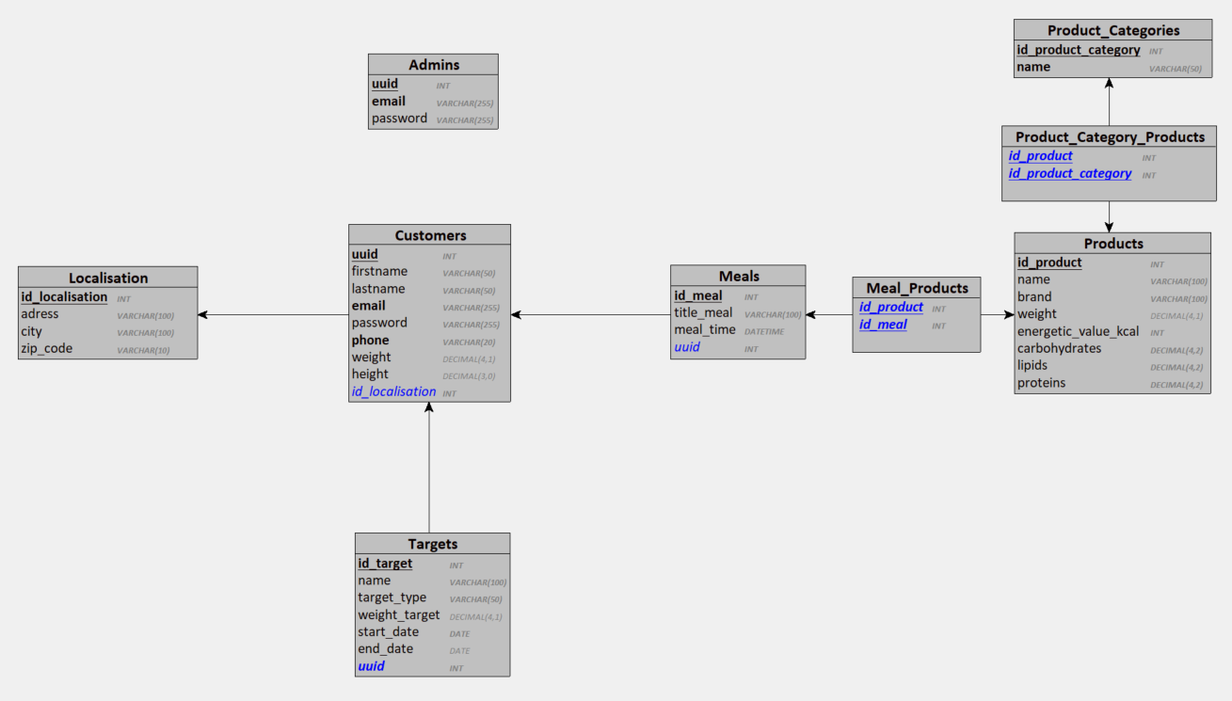
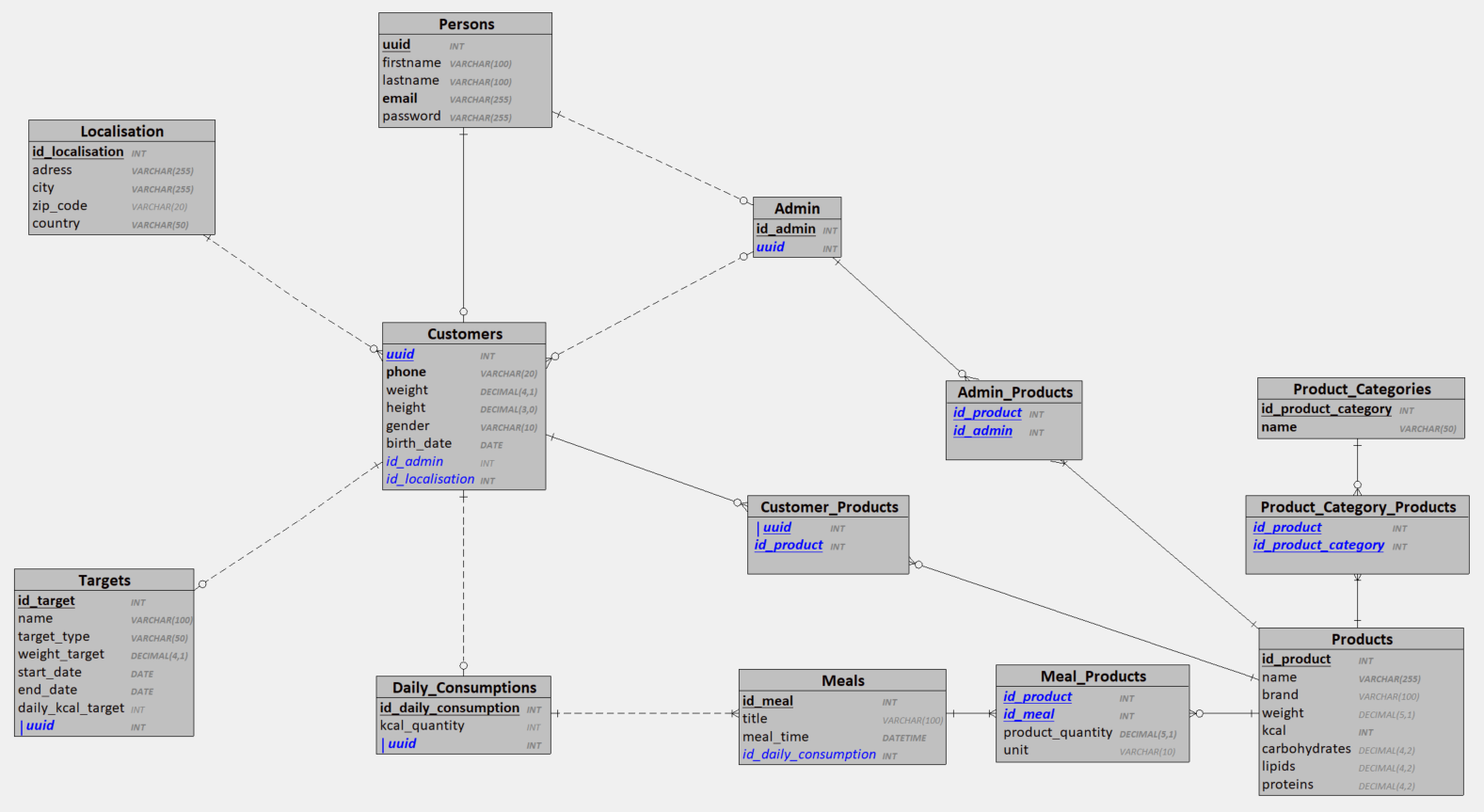
docs: update merise

diff --git a/doc/specifications-techniques/conception-bdd.md b/doc/specifications-techniques/conception-bdd.md
@@ -13,13 +13,13 @@
 ```sql
 CREATE TABLE Products(
    id_product INT,
-   name VARCHAR(100) NOT NULL,
-   brand VARCHAR(100) NOT NULL,
-   weight DECIMAL(4,1),
-   energetic_value_kcal INT NOT NULL,
-   carbohydrates DECIMAL(4,2) NOT NULL,
-   lipids DECIMAL(4,2) NOT NULL,
-   proteins DECIMAL(4,2) NOT NULL,
+   name VARCHAR(255) NOT NULL,
+   brand VARCHAR(100),
+   weight DECIMAL(5,1),
+   kcal INT NOT NULL,
+   carbohydrates DECIMAL(4,2),
+   lipids DECIMAL(4,2),
+   proteins DECIMAL(4,2),
    PRIMARY KEY(id_product)
 );
 
@@ -32,61 +32,84 @@ CREATE TABLE Product_Categories(
 
 CREATE TABLE Localisation(
    id_localisation INT,
-   adress VARCHAR(100) NOT NULL,
-   city VARCHAR(100) NOT NULL,
-   zip_code VARCHAR(10) NOT NULL,
+   adress VARCHAR(255) NOT NULL,
+   city VARCHAR(255) NOT NULL,
+   zip_code VARCHAR(20),
+   country VARCHAR(50) NOT NULL,
    PRIMARY KEY(id_localisation)
 );
 
-CREATE TABLE Admins(
+CREATE TABLE Persons(
    uuid INT,
+   firstname VARCHAR(100) NOT NULL,
+   lastname VARCHAR(100) NOT NULL,
    email VARCHAR(255) NOT NULL,
    password VARCHAR(255) NOT NULL,
    PRIMARY KEY(uuid),
    UNIQUE(email)
 );
 
-CREATE TABLE Customers(
-   uuid INT,
-   firstname VARCHAR(50) NOT NULL,
-   lastname VARCHAR(50) NOT NULL,
-   email VARCHAR(255) NOT NULL,
-   password VARCHAR(255) NOT NULL,
-   phone VARCHAR(20),
-   weight DECIMAL(4,1),
-   height DECIMAL(3,0),
-   id_localisation INT NOT NULL,
-   PRIMARY KEY(uuid),
-   UNIQUE(email),
-   UNIQUE(phone),
-   FOREIGN KEY(id_localisation) REFERENCES Localisation(id_localisation)
+CREATE TABLE Admin(
+   id_admin INT,
+   uuid INT NOT NULL,
+   PRIMARY KEY(id_admin),
+   UNIQUE(uuid),
+   FOREIGN KEY(uuid) REFERENCES Persons(uuid)
 );
 
-CREATE TABLE Meals(
-   id_meal INT,
-   title_meal VARCHAR(100) NOT NULL,
-   meal_time DATETIME NOT NULL,
-   uuid INT NOT NULL,
-   PRIMARY KEY(id_meal),
-   FOREIGN KEY(uuid) REFERENCES Customers(uuid)
+CREATE TABLE Customers(
+   uuid INT,
+   phone VARCHAR(20),
+   weight DECIMAL(4,1) NOT NULL,
+   height DECIMAL(3,0) NOT NULL,
+   gender VARCHAR(10) NOT NULL,
+   birth_date DATE NOT NULL,
+   id_admin INT,
+   id_localisation INT NOT NULL,
+   PRIMARY KEY(uuid),
+   UNIQUE(phone),
+   FOREIGN KEY(uuid) REFERENCES Persons(uuid),
+   FOREIGN KEY(id_admin) REFERENCES Admin(id_admin),
+   FOREIGN KEY(id_localisation) REFERENCES Localisation(id_localisation)
 );
 
 CREATE TABLE Targets(
    id_target INT,
    name VARCHAR(100) NOT NULL,
    target_type VARCHAR(50) NOT NULL,
-   weight_target DECIMAL(4,1),
+   weight_target DECIMAL(4,1) NOT NULL,
    start_date DATE NOT NULL,
-   end_date DATE,
+   end_date DATE NOT NULL,
+   daily_kcal_target INT,
    uuid INT NOT NULL,
    PRIMARY KEY(id_target),
    UNIQUE(uuid),
    FOREIGN KEY(uuid) REFERENCES Customers(uuid)
 );
 
+CREATE TABLE Daily_Consumptions(
+   id_daily_consumption INT,
+   kcal_quantity INT,
+   uuid INT NOT NULL,
+   PRIMARY KEY(id_daily_consumption),
+   UNIQUE(uuid),
+   FOREIGN KEY(uuid) REFERENCES Customers(uuid)
+);
+
+CREATE TABLE Meals(
+   id_meal INT,
+   title VARCHAR(100),
+   meal_time DATETIME NOT NULL,
+   id_daily_consumption INT NOT NULL,
+   PRIMARY KEY(id_meal),
+   FOREIGN KEY(id_daily_consumption) REFERENCES Daily_Consumptions(id_daily_consumption)
+);
+
 CREATE TABLE Meal_Products(
    id_product INT,
    id_meal INT,
+   product_quantity DECIMAL(5,1) NOT NULL,
+   unit VARCHAR(10),
    PRIMARY KEY(id_product, id_meal),
    FOREIGN KEY(id_product) REFERENCES Products(id_product),
    FOREIGN KEY(id_meal) REFERENCES Meals(id_meal)
@@ -99,50 +122,80 @@ CREATE TABLE Product_Category_Products(
    FOREIGN KEY(id_product) REFERENCES Products(id_product),
    FOREIGN KEY(id_product_category) REFERENCES Product_Categories(id_product_category)
 );
+
+CREATE TABLE Admin_Products(
+   id_product INT,
+   id_admin INT,
+   PRIMARY KEY(id_product, id_admin),
+   FOREIGN KEY(id_product) REFERENCES Products(id_product),
+   FOREIGN KEY(id_admin) REFERENCES Admin(id_admin)
+);
+
+CREATE TABLE Customer_Products(
+   uuid INT,
+   id_product INT,
+   PRIMARY KEY(uuid, id_product),
+   FOREIGN KEY(uuid) REFERENCES Customers(uuid),
+   FOREIGN KEY(id_product) REFERENCES Products(id_product)
+);
 ```
 
 ## Dictionnaire de données
 
-| Entité                        | Attribut             | Type de Données | Longueur | Contraintes                                                                                                                       | Description                                    | Exemple             |
-| ----------------------------- | -------------------- | --------------- | -------- | --------------------------------------------------------------------------------------------------------------------------------- | ---------------------------------------------- | ------------------- |
-| **Products**                  | id_product           | INT             | -        | PRIMARY KEY                                                                                                                       | Identifiant unique du produit.                 | 1                   |
-|                               | name                 | VARCHAR         | 100      | NOT NULL                                                                                                                          | Nom du produit.                                | Apple               |
-|                               | brand                | VARCHAR         | 100      | NOT NULL                                                                                                                          | Marque du produit.                             | Fresh Farm          |
-|                               | weight               | DECIMAL         | 4,1      | -                                                                                                                                 | Poids du produit en grammes.                   | 200.0               |
-|                               | energetic_value_kcal | INT             | -        | NOT NULL                                                                                                                          | Valeur énergétique du produit en kcal.         | 52                  |
-|                               | carbohydrates        | DECIMAL         | 4,2      | NOT NULL                                                                                                                          | Quantité de glucides en grammes.               | 14.0                |
-|                               | lipids               | DECIMAL         | 4,2      | NOT NULL                                                                                                                          | Quantité de lipides en grammes.                | 0.2                 |
-|                               | proteins             | DECIMAL         | 4,2      | NOT NULL                                                                                                                          | Quantité de protéines en grammes.              | 0.3                 |
-| **Product_Categories**        | id_product_category  | INT             | -        | PRIMARY KEY                                                                                                                       | Identifiant unique de la catégorie de produit. | 1                   |
-|                               | name                 | VARCHAR         | 50       | NOT NULL, UNIQUE                                                                                                                  | Nom de la catégorie de produit.                | Fruits              |
-| **Localisation**              | id_localisation      | INT             | -        | PRIMARY KEY                                                                                                                       | Identifiant unique de la localisation.         | 1                   |
-|                               | adress               | VARCHAR         | 100      | NOT NULL                                                                                                                          | Adresse de la localisation.                    | 123 Main St         |
-|                               | city                 | VARCHAR         | 100      | NOT NULL                                                                                                                          | Ville de la localisation.                      | Paris               |
-|                               | zip_code             | VARCHAR         | 10       | NOT NULL                                                                                                                          | Code postal de la localisation.                | 75001               |
-| **Customers**                 | uuid                 | INT             | -        | PRIMARY KEY                                                                                                                       | Identifiant unique du client.                  | 1                   |
-|                               | firstname            | VARCHAR         | 50       | NOT NULL                                                                                                                          | Prénom du client.                              | John                |
-|                               | lastname             | VARCHAR         | 50       | NOT NULL                                                                                                                          | Nom de famille du client.                      | Doe                 |
-|                               | email                | VARCHAR         | 255      | NOT NULL, UNIQUE                                                                                                                  | Adresse email du client.                       | john.doe@mail.com   |
-|                               | password             | VARCHAR         | 255      | NOT NULL                                                                                                                          | Mot de passe du client.                        | securepass          |
-|                               | phone                | VARCHAR         | 20       | UNIQUE                                                                                                                            | Numéro de téléphone du client.                 | 1234567890          |
-|                               | weight               | DECIMAL         | 4,1      | -                                                                                                                                 | Poids du client en kg.                         | 70.0                |
-|                               | height               | DECIMAL         | 3,0      | -                                                                                                                                 | Taille du client en cm.                        | 175                 |
-|                               | id_localisation      | INT             | -        | NOT NULL, FOREIGN KEY(id_localisation) REFERENCES Localisation(id_localisation)                                                   | Référence à la localisation du client.         | 1                   |
-| **Meals**                     | id_meal              | INT             | -        | PRIMARY KEY                                                                                                                       | Identifiant unique du repas.                   | 1                   |
-|                               | title_meal           | VARCHAR         | 100      | NOT NULL                                                                                                                          | Titre du repas.                                | Breakfast           |
-|                               | meal_time            | DATETIME        | -        | NOT NULL                                                                                                                          | Heure du repas.                                | 2023-01-01 08:00:00 |
-|                               | uuid                 | INT             | -        | NOT NULL, FOREIGN KEY(uuid) REFERENCES Customers(uuid)                                                                            | Référence au client ayant consommé le repas.   | 1                   |
-| **Targets**                   | id_target            | INT             | -        | PRIMARY KEY                                                                                                                       | Identifiant unique de l'objectif.              | 1                   |
-|                               | name                 | VARCHAR         | 100      | NOT NULL                                                                                                                          | Nom de l'objectif.                             | Weight Loss         |
-|                               | target_type          | VARCHAR         | 50       | NOT NULL                                                                                                                          | Type de l'objectif.                            | Weight              |
-|                               | weight_target        | DECIMAL         | 4,1      | -                                                                                                                                 | Poids cible.                                   | 65.0                |
-|                               | start_date           | DATE            | -        | NOT NULL                                                                                                                          | Date de début de l'objectif.                   | 2023-01-01          |
-|                               | end_date             | DATE            | -        | -                                                                                                                                 | Date de fin de l'objectif.                     | 2023-12-31          |
-|                               | uuid                 | INT             | -        | NOT NULL, UNIQUE, FOREIGN KEY(uuid) REFERENCES Customers(uuid)                                                                    | Référence au client ayant cet objectif.        | 1                   |
-| **Meal_Products**             | id_product           | INT             | -        | PRIMARY KEY(id_product, id_meal), FOREIGN KEY(id_product) REFERENCES Products(id_product)                                         | Référence au produit dans le repas.            | 1                   |
-|                               | id_meal              | INT             | -        | PRIMARY KEY(id_product, id_meal), FOREIGN KEY(id_meal) REFERENCES Meals(id_meal)                                                  | Référence au repas contenant le produit.       | 1                   |
-| **Product_Category_Products** | id_product           | INT             | -        | PRIMARY KEY(id_product, id_product_category), FOREIGN KEY(id_product) REFERENCES Products(id_product)                             | Référence au produit dans la catégorie.        | 1                   |
-|                               | id_product_category  | INT             | -        | PRIMARY KEY(id_product, id_product_category), FOREIGN KEY(id_product_category) REFERENCES Product_Categories(id_product_category) | Référence à la catégorie contenant le produit. | 1                   |
-| **Admins**                    | uuid                 | INT             | -        | PRIMARY KEY                                                                                                                       | Identifiant unique de l'administrateur.        | 1                   |
-|                               | email                | VARCHAR         | 255      | NOT NULL, UNIQUE                                                                                                                  | Adresse email de l'administrateur.             | admin@mail.com      |
-|                               | password             | VARCHAR         | 255      | NOT NULL                                                                                                                          | Mot de passe de l'administrateur.              | adminpass           |
+| Entité                   | Attribut             | Type de Données | Longueur | Contraintes                                  | Description                                                    | Exemple       |
+|--------------------------|----------------------|-----------------|----------|----------------------------------------------|----------------------------------------------------------------|---------------|
+| **Products**             | id_product           | INT             | -        | PRIMARY KEY                                  | Identifiant unique du produit.                                 | 1             |
+|                          | name                 | VARCHAR         | 255      | NOT NULL                                     | Nom du produit.                                                | Apple         |
+|                          | brand                | VARCHAR         | 100      | -                                            | Marque du produit.                                             | Fresh Farm    |
+|                          | weight               | DECIMAL         | 5,1      | -                                            | Poids du produit en grammes.                                   | 200.0         |
+|                          | kcal                 | INT             | -        | NOT NULL                                     | Valeur énergétique du produit en kcal.                         | 52            |
+|                          | carbohydrates        | DECIMAL         | 4,2      | -                                            | Quantité de glucides en grammes.                               | 14.0          |
+|                          | lipids               | DECIMAL         | 4,2      | -                                            | Quantité de lipides en grammes.                                | 0.2           |
+|                          | proteins             | DECIMAL         | 4,2      | -                                            | Quantité de protéines en grammes.                              | 0.3           |
+| **Product_Categories**   | id_product_category  | INT             | -        | PRIMARY KEY                                  | Identifiant unique de la catégorie de produit.                 | 1             |
+|                          | name                 | VARCHAR         | 50       | NOT NULL, UNIQUE                             | Nom de la catégorie de produit.                                | Fruits        |
+| **Localisation**         | id_localisation      | INT             | -        | PRIMARY KEY                                  | Identifiant unique de la localisation.                         | 1             |
+|                          | adress               | VARCHAR         | 255      | NOT NULL                                     | Adresse de la localisation.                                    | 123 Main St   |
+|                          | city                 | VARCHAR         | 255      | NOT NULL                                     | Ville de la localisation.                                      | Paris         |
+|                          | zip_code             | VARCHAR         | 20       | -                                            | Code postal de la localisation.                                | 75001         |
+|                          | country              | VARCHAR         | 50       | NOT NULL                                     | Pays de la localisation.                                       | France        |
+| **Persons**              | uuid                 | INT             | -        | PRIMARY KEY                                  | Identifiant unique de la personne.                             | 123e4567-e89b-12d3-a456-426614174000             |
+|                          | firstname            | VARCHAR         | 100      | NOT NULL                                     | Prénom de la personne.                                         | John          |
+|                          | lastname             | VARCHAR         | 100      | NOT NULL                                     | Nom de famille de la personne.                                 | Doe           |
+|                          | email                | VARCHAR         | 255      | NOT NULL, UNIQUE                             | Adresse email de la personne.                                  | john.doe@mail.com |
+|                          | password             | VARCHAR         | 255      | NOT NULL                                     | Mot de passe de la personne.                                   | securepass    |
+| **Admin**                | id_admin             | INT             | -        | PRIMARY KEY                                  | Identifiant unique de l'administrateur.                        | 1             |
+|                          | uuid                 | INT             | -        | NOT NULL, UNIQUE, FOREIGN KEY(uuid) REFERENCES Persons(uuid) | Référence à la personne administrateur.                        | 123e4567-e89b-12d3-a456-426614174000             |
+| **Customers**            | uuid                 | INT             | -        | PRIMARY KEY                                  | Identifiant unique du client.                                  | 123e4567-e89b-12d3-a456-426614174000             |
+|                          | phone                | VARCHAR         | 20       | UNIQUE                                       | Numéro de téléphone du client.                                 | 1234567890    |
+|                          | weight               | DECIMAL         | 4,1      | NOT NULL                                     | Poids du client en kg.                                         | 70.0          |
+|                          | height               | DECIMAL         | 3,0      | NOT NULL                                     | Taille du client en cm.                                        | 175           |
+|                          | gender               | VARCHAR         | 10       | NOT NULL                                     | Genre du client.                                               | Male          |
+|                          | birth_date           | DATE            | -        | NOT NULL                                     | Date de naissance du client.                                   | 1990-01-01    |
+|                          | id_admin             | INT             | -        | FOREIGN KEY(id_admin) REFERENCES Admin(id_admin) | Référence à l'administrateur responsable du client.            | 123e4567-e89b-12d3-a456-426614174000             |
+|                          | id_localisation      | INT             | -        | NOT NULL, FOREIGN KEY(id_localisation) REFERENCES Localisation(id_localisation) | Référence à la localisation du client.            | 1             |
+| **Targets**              | id_target            | INT             | -        | PRIMARY KEY                                  | Identifiant unique de l'objectif.                              | 1             |
+|                          | name                 | VARCHAR         | 100      | NOT NULL                                     | Nom de l'objectif.                                             | Weight Loss   |
+|                          | target_type          | VARCHAR         | 50       | NOT NULL                                     | Type de l'objectif.                                            | Weight        |
+|                          | weight_target        | DECIMAL         | 4,1      | NOT NULL                                     | Poids cible.                                                   | 65.0          |
+|                          | start_date           | DATE            | -        | NOT NULL                                     | Date de début de l'objectif.                                   | 2023-01-01    |
+|                          | end_date             | DATE            | -        | NOT NULL                                     | Date de fin de l'objectif.                                     | 2023-12-31    |
+|                          | daily_kcal_target    | INT             | -        | -                                            | Objectif quotidien en kcal.                                    | 2000          |
+|                          | uuid                 | INT             | -        | NOT NULL, UNIQUE, FOREIGN KEY(uuid) REFERENCES Customers(uuid) | Référence au client ayant cet objectif.                    | 123e4567-e89b-12d3-a456-426614174000             |
+| **Daily_Consumptions**   | id_daily_consumption | INT             | -        | PRIMARY KEY                                  | Identifiant unique de la consommation quotidienne.             | 1             |
+|                          | kcal_quantity        | INT             | -        | -                                            | Quantité de kcal consommées dans la journée.                   | 1800          |
+|                          | uuid                 | INT             | -        | NOT NULL, UNIQUE, FOREIGN KEY(uuid) REFERENCES Customers(uuid) | Référence au client ayant cette consommation.                  | 123e4567-e89b-12d3-a456-426614174000             |
+| **Meals**                | id_meal              | INT             | -        | PRIMARY KEY                                  | Identifiant unique du repas.                                   | 1             |
+|                          | title                | VARCHAR         | 100      | -                                            | Titre du repas.                                                | Breakfast     |
+|                          | meal_time            | DATETIME        | -        | NOT NULL                                     | Heure du repas.                                                | 2023-01-01 08:00:00 |
+|                          | id_daily_consumption | INT             | -        | NOT NULL, FOREIGN KEY(id_daily_consumption) REFERENCES Daily_Consumptions(id_daily_consumption) | Référence à la consommation quotidienne liée au repas.         | 1             |
+| **Meal_Products**        | id_product           | INT             | -        | PRIMARY KEY(id_product, id_meal), FOREIGN KEY(id_product) REFERENCES Products(id_product) | Référence au produit dans le repas.                | 1             |
+|                          | id_meal              | INT             | -        | PRIMARY KEY(id_product, id_meal), FOREIGN KEY(id_meal) REFERENCES Meals(id_meal) | Référence au repas contenant le produit.               | 1             |
+|                          | product_quantity     | DECIMAL         | 5,1      | NOT NULL                                     | Quantité du produit dans le repas.                             | 100.0         |
+|                          | unit                 | VARCHAR         | 10       | -                                            | Unité de mesure de la quantité du produit.                     | g             |
+| **Product_Category_Products** | id_product      | INT             | -        | PRIMARY KEY(id_product, id_product_category), FOREIGN KEY(id_product) REFERENCES Products(id_product) | Référence au produit dans la catégorie.            | 1             |
+|                          | id_product_category  | INT             | -        | PRIMARY KEY(id_product, id_product_category), FOREIGN KEY(id_product_category) REFERENCES Product_Categories(id_product_category) | Référence à la catégorie contenant le produit. | 1             |
+| **Admin_Products**       | id_product           | INT             | -        | PRIMARY KEY(id_product, id_admin), FOREIGN KEY(id_product) REFERENCES Products(id_product) | Référence au produit géré par l'administrateur.               | 1             |
+|                          | id_admin             | INT             | -        | PRIMARY KEY(id_product, id_admin), FOREIGN KEY(id_admin) REFERENCES Admin(id_admin) | Référence à l'administrateur gérant le produit.               | 1             |
+| **Customer_Products**    | uuid                 | INT             | -        | PRIMARY KEY(uuid, id_product), FOREIGN KEY(uuid) REFERENCES Customers(uuid) | Référence au client ayant consommé le produit.                 | 123e4567-e89b-12d3-a456-426614174000             |
+|                          | id_product           | INT             | -        | PRIMARY KEY(uuid, id_product), FOREIGN KEY(id_product) REFERENCES Products(id_product) | Référence au produit consommé par le client.                  | 1             |
